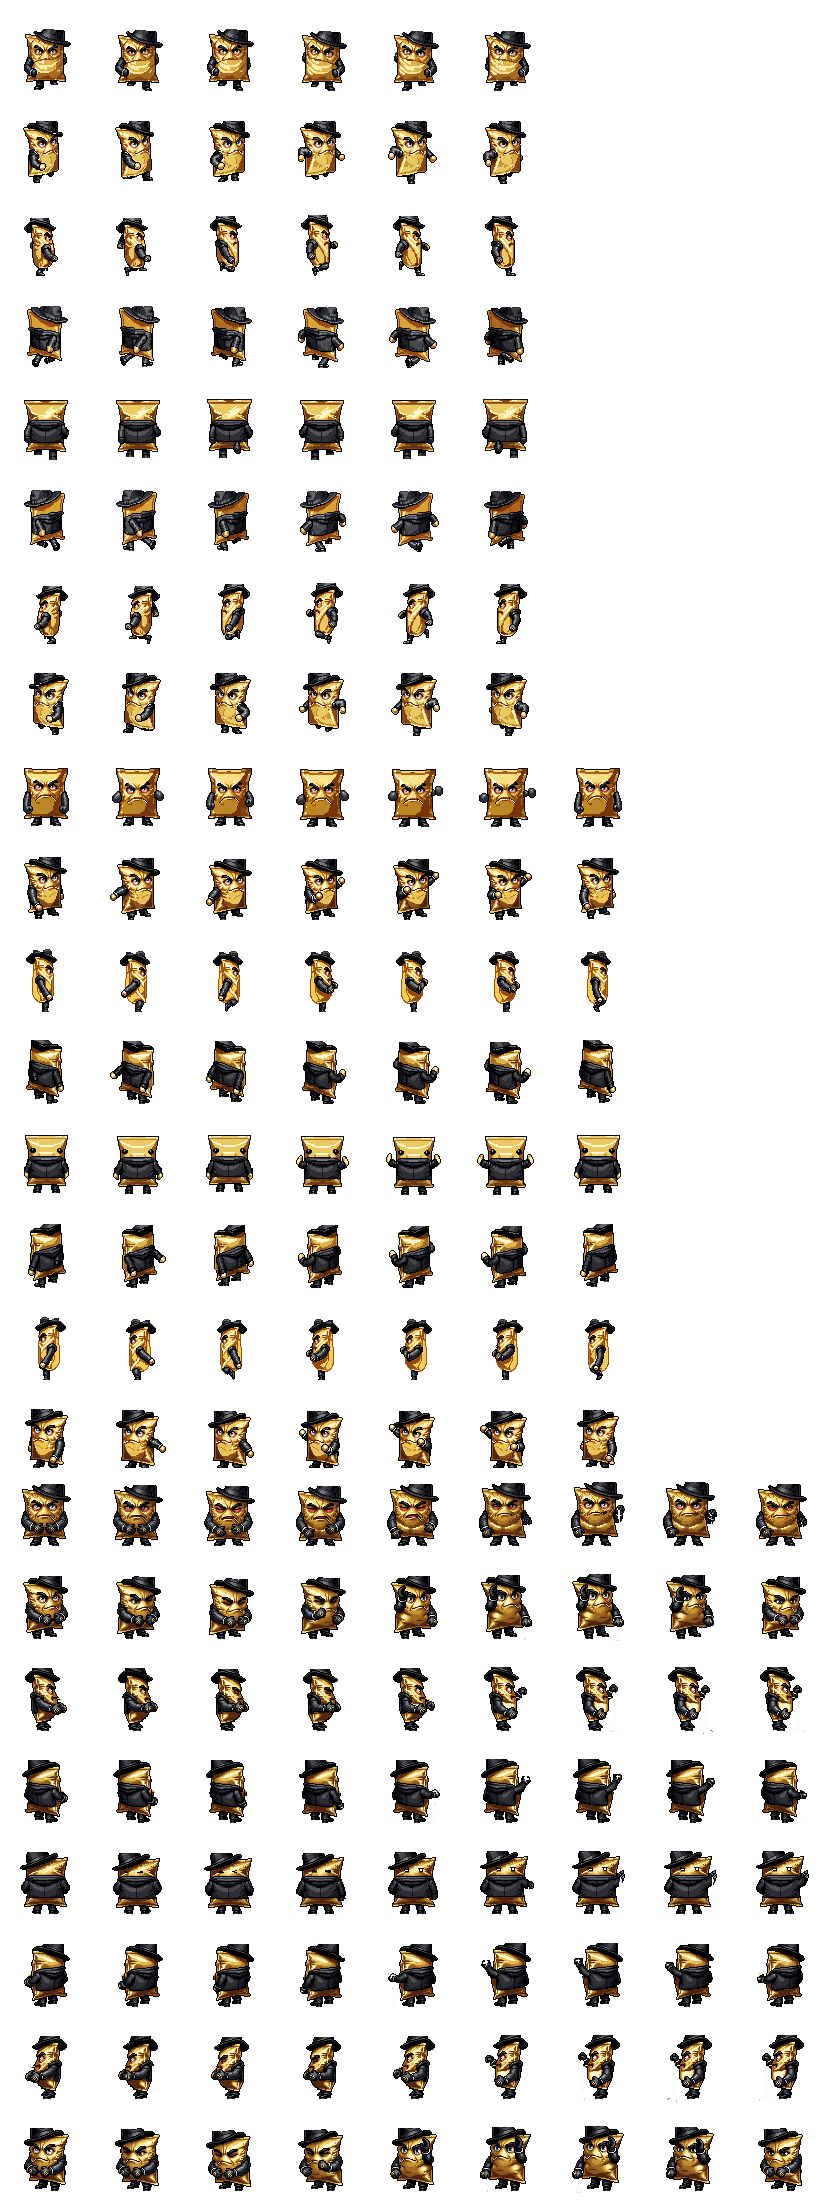
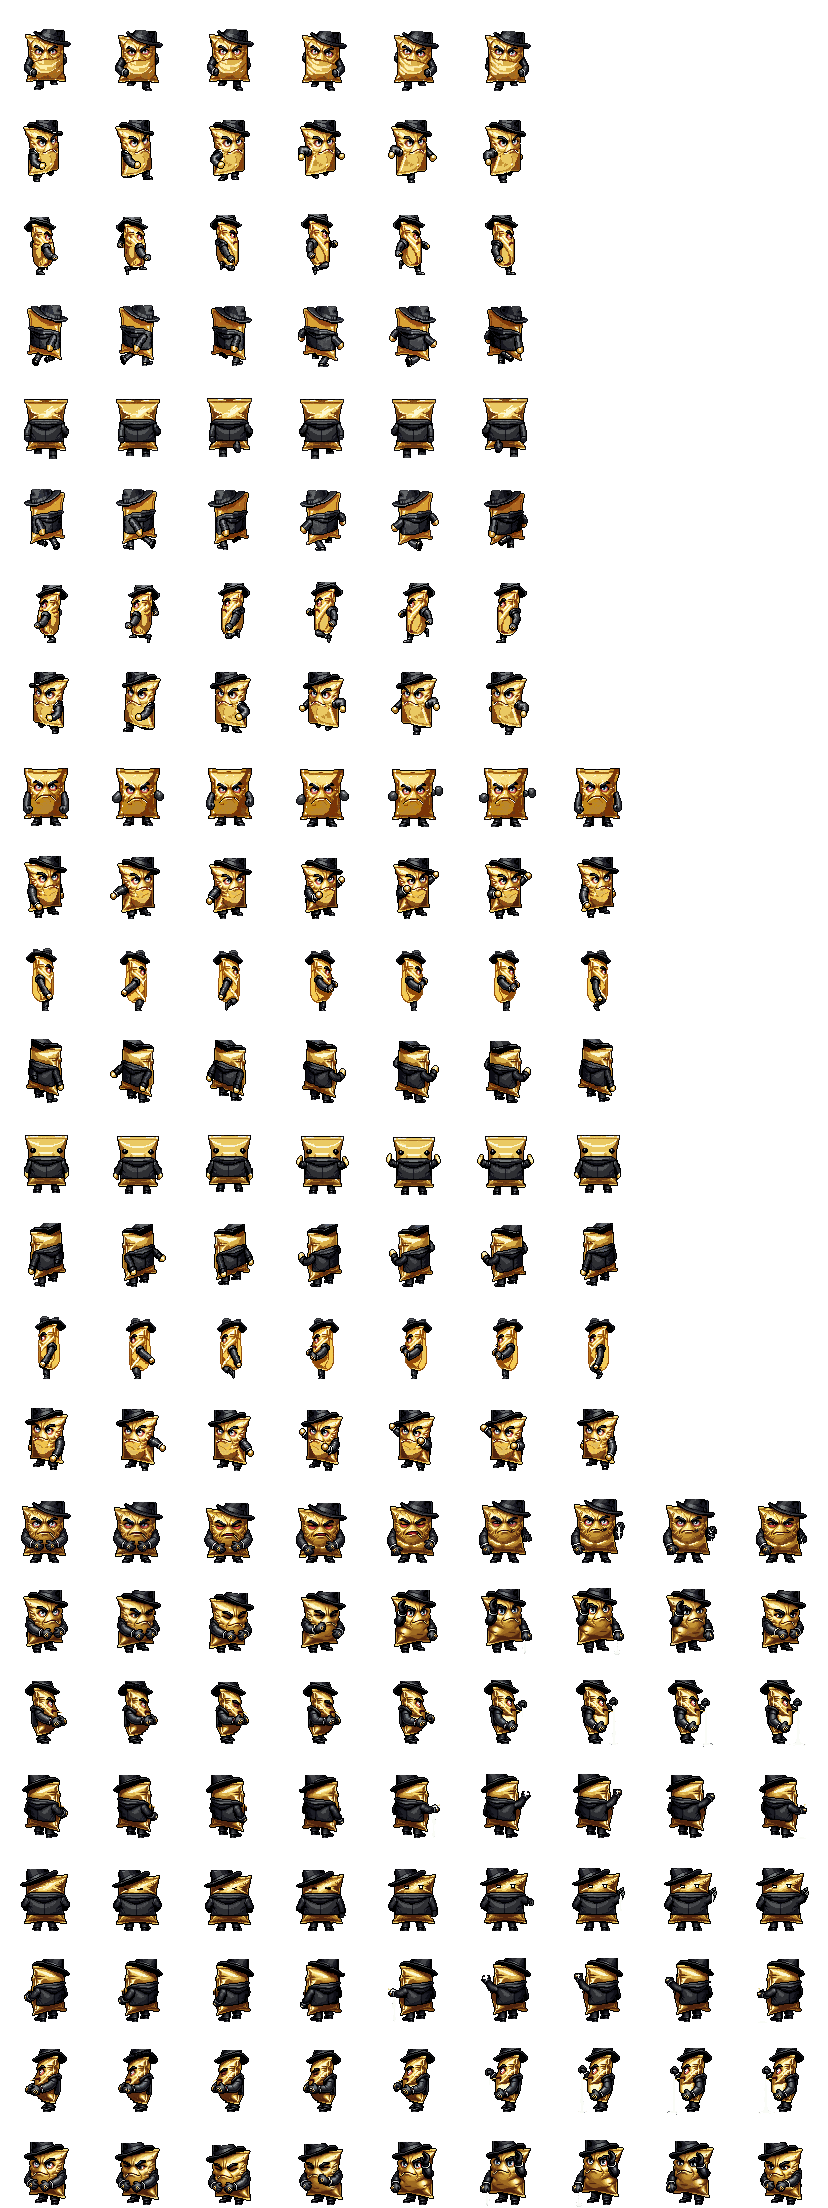
FIX: „?op!" przy skoku (font bez H) + butla podnosila sie przy strzale
Dwie uwagi wlasciciela, oba realne bledy.

1. „?op!" PODCZAS SKOKU. Napis po podwojnym skoku to `'HOP!'`, ale wlasny font
   bitmapowy 5x7 (`GLIF`) NIE MIAL LITERY H — brakowalo tez J, Q i V. Kazda z nich
   rysowala sie jako '?'. Dorysowane wszystkie cztery; walidacja przechodzi po calym
   foncie (26 liter, kazdy glif dokladnie 7 rzedow x 5 znakow).

2. BUTLA KETCHUPU PODNOSILA SIE PRZY STRZALE — i to byl blad w MOIM packerze
   z poprzedniego commita. Wyrownywalem KRAWEDZIE KLATEK, a PixelLab daje roznym
   animacjom rozna ilosc pustego miejsca pod postacia: bieg Ketchupina ma 1 pusty
   rzad pod trescia, animacja strzalu az 15. Przy wyrownaniu krawedzi butla skakala
   w gore o 14 px na czas ataku.
   Samo przesuniecie nie wystarczylo — klatki w rozmiarze komorki wypelniaja ja bez
   reszty i nie ma ich gdzie zjechac. Packer ODCINA teraz puste rzedy pod trescia
   (te same dla calego wiersza, wiec ruch W OBREBIE animacji zostaje nietknięty)
   i wyrownuje tresc do dolu komorki.
   Zmierzone na arkuszu: dol tresci punch 77 px -> 91 px przy run 90 px, czyli
   rozjazd 13 px -> 1 px (0.03 j. w swiecie).
   Zmierzone w grze: linia bazowa sprite'a IDENTYCZNA w obu animacjach (1.168 j.);
   rozrzut w `run` to wlasne podskoki wrogow, nie sprite.

Dlaczego to wazne poza tymi dwoma postaciami: `footOff` jest liczone z alfy RAZ NA CALY
ARKUSZ, wiec kazda animacja o innym marginesie pod stopami przesuwa cala postac.
[…]

diff --git a/main.js b/main.js
@@ -1,6 +1,6 @@
 // HORDA 3D v4 — teren 3D + kamera za plecami + meta-progresja (monety/sklep)
 import * as THREE from './lib/three.module.js';
-import { SPRITEDATA } from './spritedata.js?v=9';
+import { SPRITEDATA } from './spritedata.js?v=10';
 import { icon, ico } from './icons.js?v=3';
 import { AUDIO } from './audio.js?v=4';            // muzyka wg fazy gry + kwestie głosowe + efekty
 
@@ -2869,7 +2869,9 @@ const GLIF = {
   'E': ['11111','10000','10000','11110','10000','10000','11111'],
   'F': ['11111','10000','10000','11110','10000','10000','10000'],
   'G': ['01110','10001','10000','10111','10001','10001','01111'],
+  'H': ['10001','10001','10001','11111','10001','10001','10001'],
   'I': ['01110','00100','00100','00100','00100','00100','01110'],
+  'J': ['00111','00010','00010','00010','00010','10010','01100'],
   'K': ['10001','10010','10100','11000','10100','10010','10001'],
   'L': ['10000','10000','10000','10000','10000','10000','11111'],
   'M': ['10001','11011','10101','10101','10001','10001','10001'],
@@ -2879,7 +2881,9 @@ const GLIF = {
   'R': ['11110','10001','10001','11110','10100','10010','10001'],
   'S': ['01111','10000','10000','01110','00001','00001','11110'],
   'T': ['11111','00100','00100','00100','00100','00100','00100'],
+  'Q': ['01110','10001','10001','10001','10101','01110','00011'],
   'U': ['10001','10001','10001','10001','10001','10001','01110'],
+  'V': ['10001','10001','10001','10001','10001','01010','00100'],
   'W': ['10001','10001','10001','10101','10101','11011','10001'],
   'X': ['10001','10001','01010','00100','01010','10001','10001'],
   'Y': ['10001','10001','01010','00100','00100','00100','00100'],

diff --git a/index.html b/index.html
@@ -524,6 +524,6 @@
     addEventListener('unhandledrejection', e => window.__err.push('PROMISE: ' + (e.reason && e.reason.stack || e.reason)));
   }
 </script>
-<script type="module" src="main.js?v=114"></script>
+<script type="module" src="main.js?v=115"></script>
 </body>
 </html>

diff --git a/narzedzia/pakuj_veggie.py b/narzedzia/pakuj_veggie.py
@@ -202,15 +202,36 @@ def pakuj(zip_path: str, out_dir: str):
 
         arkusz = Image.new('RGBA', (maks_klatek * size, len(wiersze) * size), (0, 0, 0, 0))
         anims_meta = {}
+        MARG_DOL = 1        # ile pustych rzedow zostawiamy pod stopami w komorce
+
         for r, (anim, d, klatki) in enumerate(wiersze):
+            # WYROWNUJEMY STOPY, NIE KRAWEDZIE KLATEK. PixelLab daje roznym animacjom
+            # rozna ilosc pustego miejsca pod postacia (Ketchupino: bieg 1 pusty rzad,
+            # atak 15) — przy wyrownaniu krawedzi butla PODNOSILA SIE o 14 px w trakcie
+            # strzalu. Silnik liczy `footOff` z alfy RAZ NA CALY ARKUSZ, wiec wszystkie
+            # animacje musza stac na tej samej linii.
+            # Przesuniecie liczymy RAZ NA WIERSZ (nie na klatke), bo inaczej skasowalibysmy
+            # ruch W OBREBIE animacji — np. luk skoku spłaszczylby sie do miejsca.
+            # 1) najnizszy nieprzezroczysty rzad W CALYM WIERSZU
+            dol_wiersza = 0
+            for kl in klatki:
+                with Image.open(kl) as im:
+                    bb = im.convert('RGBA').getchannel('A').getbbox()
+                    if bb:
+                        dol_wiersza = max(dol_wiersza, bb[3])
+            # 2) ODCINAMY puste rzedy pod trescia (te same dla calego wiersza, wiec ruch
+            #    W OBREBIE animacji zostaje), a potem wyrownujemy do dolu komorki.
+            #    Samo przesuwanie nie wystarczylo: klatki w rozmiarze komorki wypelniaja
+            #    ja bez reszty i nie ma ich gdzie zjechac — dlatego crop, nie offset.
             for c, kl in enumerate(klatki):
                 with Image.open(kl) as im:
                     im = im.convert('RGBA')
-                    # wysrodkowanie w poziomie + WYROWNANIE DO DOLU komorki: silnik liczy
-                    # `footOff` z alfy raz na CALY arkusz, wiec gdyby animacje siedzialy
-                    # na roznych wysokosciach w komorce, postac skakalaby przy zmianie animacji
+                    if dol_wiersza and dol_wiersza < im.height:
+                        im = im.crop((0, 0, im.width, dol_wiersza))
+                    if im.height > size - MARG_DOL:      # tresc wyzsza niz komorka: obetnij od gory
+                        im = im.crop((0, im.height - (size - MARG_DOL), im.width, im.height))
                     ox = c * size + (size - im.width) // 2
-                    oy = r * size + (size - im.height)
+                    oy = r * size + (size - MARG_DOL) - im.height
                     arkusz.paste(im, (ox, oy))
             meta = anims_meta.setdefault(anim, {'fps': zebrane[anim][0], 'frames': {}, 'rows': {}})
             meta['frames'][d] = len(klatki)
